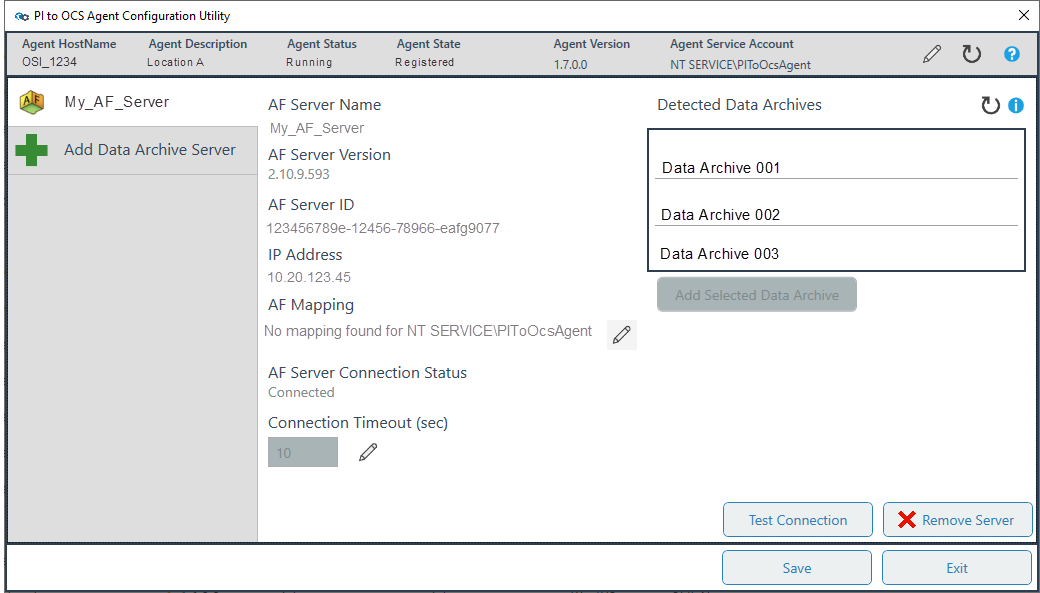
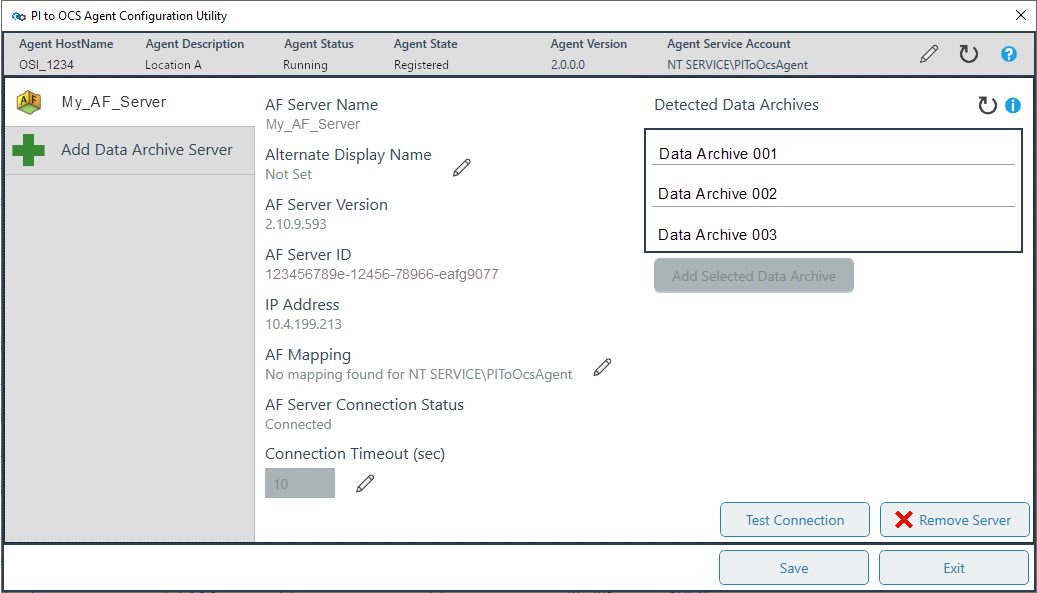
config-utility updates

diff --git a/content/add-organize-data/collect-data/connectors/pi-to-ocs/set-up-pi-to-ocs/config-utility.md b/content/add-organize-data/collect-data/connectors/pi-to-ocs/set-up-pi-to-ocs/config-utility.md
@@ -6,26 +6,24 @@ uid: pi-to-ocs-utility
 
 Use the PI to OCS Agent Configuration Utility to set up and configure AF server and Data Archive data sources before creating a data transfer. After installing or upgrading a PI to OCS Agent, use the utility to select a source AF server or Data Archive, view connection details, create AF and PI mappings, set data privacy settings, and register the agent. 
 
-The following image and table provides descriptions of the fields in the utility.<!--AF 11/12/21 why are there two comments on the image in addition to the numbered callouts? shouldn't they all be numbered callouts?-->  
+The following table provides descriptions of the fields shown in the configuration utility. The image shows the AF server selected, but the fields are similar when a Data Archive server is selected.
 
    ![AF server details](../../images/utility-callouts.png)
 
-| Number  | Description                                                  |
-| :-----: | ------------------------------------------------------------ |
-| 1  | Name of the host computer where the agent is installed.       |
-| 2  | An optional name for an agent.                                |
-| 3  | Displays the PI to OCS Agent's status.                        |
-| 4  | Displays the agent's registration state.        |
-| 5  | The installed PI to OCS Agent version.                    |
-| 6  | Type of agent service account.                               |
-| 7  | Set data privacy options and assign an agent description.    |
+| Number | Description                                                     |
+| :----: | --------------------------------------------------------------- |
+| 1  | Name of the host computer where the agent is installed.             |
+| 2  | An optional name for the agent.                                     |
+| 3  | Displays the agent's status.                                        |
+| 4  | Displays the agent's registration state.                            |
+| 5  | The installed PI to OCS Agent version.                              |
+| 6  | Type of agent service account.                                      |
+| 7  | Set data privacy options and assign an agent description.           |
 | 8  | View information about the server connection and its configuration. |
-| 9  | Source AF server name.                                        |
-| 10 | An optional, alternate name for an AF server. Select the pencil icon to assign a custom name that appears in the PI to OCS Agents window if you opted to display it. This name replaces the AF server name referenced in the path of the asset's metadata, which is visible in Asset Explorer ('__Path').</br>**Note:** Setting an alternate display name must be done *before* the initial start of a transfer. StreamIds are immutable. Once a stream is built, to change it you must delete all the original streams, configure the alternate display name, and restart the transfer.</br>**Note:** You can also assign an alternate Data Archive server name that appears in PI to OCS stream IDs. | 
-| 11 | The type of AF mapping configured on the service account. Select the pencil icon next to assign an AF mapping to an AF identity. |
-| 12 | The time before the agent connection times out. Select the pencil icon to enter a new time in seconds. |
-
-   **Note:** After a Data Archive server is added, similar information in the table above is displayed in the utility.
+| 9  | Source AF or Data Archive server name.                              |
+| 10 | An optional, alternate name for an AF or Data Archive server.       | 
+| 11 | The type of AF/PI mapping configured on the service account.        |
+| 12 | The time before the agent connection times out.                     |
 
 ## Open the PI to OCS Agent Configuration Utility
 
@@ -33,7 +31,7 @@ The PI to OCS Agent Configuration Utility opens after you install or upgrade a P
 
 **Note:** If you use a different user account than the one that was used originally to install the agent, authentication is required before you can access the utility. 
 
-To open the PI to OCS Agent Configuration Utility, follow these steps:
+To open the PI to OCS Agent Configuration Utility:
 
 1. Select **Start** > **OSIsoft** > **PI to OCS Agent Configuration Utility**, and then select **Yes** to confirm.
 
@@ -49,32 +47,33 @@ Add an AF server to the utility to be able to use it in data transfers. The util
 
 * The version of PI Asset Framework (AF) installed on the AF server supports the features required for transfers.
 
-To add an AF server, follow these steps:
+To add an AF server:
+
+1. Open the PI to OCS Agent Configuration Utility.
 
 1. In the `PI to OCS Agent Configuration Utility` window, select the **AF** button.<!--Angela Flores 11/12/21 - I normally would not use button, but I can't tell from the screenshots what you actual need to select.-->
 
-1. In the **AF Server Name** field, enter the name of the AF server, and then select **Add Server**.
- 
+   **Note**: If a Data Archive server was added first, select **Add Asset Framework Server** on the left side of the window instead.
+
+1. In the **AF Server Name** box, enter the name of the AF server, and then select **Add Server**.
+
    The utility displays the server details.
 
    ![Agent status and state after refresh](../../images/af-details-refreshed.png)
 
-   **Note:** Once an AF Server has been added, the utility scans the configured AF server for referenced Data Archives. As the utility finds Data Archives, they are shown in the **Detected Data Archives** list. You can select and add the desired Data Archive. You don't have to wait for the scan to complete. You can also manually type the name of the Data Archive if you don't want to wait for the scan to complete.
-
+   **Note:** Once an AF Server has been added, the utility scans the configured AF server for referenced Data Archives. As the utility finds Data Archives, they are shown in the **Detected Data Archives** list. You can select and add the desired Data Archive. You do not have to wait for the scan to complete. You can also manually type the name of the Data Archive if you do not want to wait for the scan.
 
 1. Select one of the Data Archives listed under `Detected Data Archives`, and then select **Add Selected Data Archive**.
 
 1. Review the AF source server details to ensure they are correct:
 
    * AF server name, version, and ID
-
    * IP address
-
    * Connection status and timeout
 
-1. (Optional) To add an alternate name that appears in in the path of the asset's metadata and in the portal if you opted to display it, select the pencil icon, type an alternate name, select **Set Display Name** and then select **Close**. 
+1. (Optional) To add an alternate name that appears in the path of the asset's metadata and in the portal if you opted to display it, select the pencil icon, type an alternate name, select **Set Display Name** and then select **Close**. See [Usage of server names and alternate display names within OCS](#usage-of-server-names-and-alternate-display-names-within-ocs).
 
-1. (Optional) To change the length of time the agent checks for a server connection before timing out, select the pencil icon next to the **Connection Timeout** field.
+1. (Optional) To change the length of time the agent checks for a server connection before timing out, select the pencil icon next to the **Connection Timeout** box.
 
 1. To keep the current AF server configuration settings and restart the agent, select **Save**.
 
@@ -84,17 +83,25 @@ To add an AF server, follow these steps:
 
    **Note:** After you save the AF server configuration settings and restart and register the agent, you need to select a default Data Archive in PI System Explorer to resolve substitution references for AF element attributes.
 
+## Usage of server names and alternate display names within OCS
+
+The AF server name, or its alternate display name, displays on the PI to OCS Agents page within OCS and is referenced in the path of an asset's metadata, which is visible in Asset Explorer (`__Path`).
+
+The Data Archive name, or its alternate display name, appears in the PI to OCS Agents window within OCS, and is used in the StreamIDs created by a transfer. StreamIds have the format `PI_[DataArchiveServerName]_[PIPointIDNumber]`.
+
+**Note:** Setting an alternate display name for a Data Archive must be done *before* the initial start of a transfer. StreamIds are immutable. Once a stream is built, to change it you must delete all the original streams, configure the alternate display name, and restart the transfer.
+
 ## Select the default Data Archive in PI System Explorer
 
 You need to specify the default Data Archive, also referred to as the default data server, for the PI system and PI AF database after setting an AF server. By default, PI AF databases inherit the PI AF Server's local default data server. See [Find the default Data Archive server](https://docs.osisoft.com/bundle/pi-server/page/find-the-default-pi-data-archive-server.html) for more information.
 
-To select the default Data Archive, follow these steps:
+To select the default Data Archive:
 
 1. Open PI System Explorer on the client machine.
 
 1. Select **File** > **Server Properties**.
 
-1. In the `PI AF Server Properties` window, select the **Default Data Server** down arrow, and then select the data server to be the default.<!--AF 11/12/21 what is Default Data Server down arrow???-->
+1. In the `PI AF Server Properties` window, select the data server to be the default from the **Default Data Server** dropdown list.
 
 1. Select **Apply**, then select **OK** to save the selection.
  
@@ -106,11 +113,11 @@ You can assign an AF mapping to an AF identity. AF mappings enable a specific se
 
 **Note:** The user account used to launch the utility must have permission to create mappings.
 
-To create an AF mapping, follow these steps:
+To create an AF mapping:
 
 1. Open the PI to OCS Agent Configuration Utility.
 
-1. Select the pencil icon next to the **AF Mapping** field.
+1. Select the pencil icon next to **AF Mapping**.
    
 1. In the `Configure AF Mapping` window, for each mapping you want to add, select an identity and select **Save**.
 
@@ -130,25 +137,27 @@ The list of available Data Archive servers is based on the servers referenced by
 
 **Note:** If you are not adding an AF server, select the Data Archive icon on the first screen of the PI to OCS Agent Configuration Utility.
 
-To add a Data Archive, follow these steps:
+To add a Data Archive:
 
 1. Open the PI to OCS Agent Configuration Utility.
+
+1. In the `PI to OCS Agent Configuration Utility` window, select the **Data Archive Server** button.
+
+   **Note**: If an AF server was added first, select **Add Data Archive Server** on the left side of the window instead.
    
-1. Select **Data Archive Server**, then enter the name of the Data Archive server, and then select **Add Server**.
+1. In the **Data Archive Server Name** box, enter the name of the Data Archive server, and then select **Add Server**.
    
    The Data Archive connection is added and details about the newly added Data Archive are displayed.
 
 1. Review the following details for the Data Archive:
  
    * Server name, version, and server ID
-
    * IP address
-
    * Connection status and timeout
    
-1. (Optional) To add an alternate name that appears in the stream ID and in the portal if you opted to display it, select the **Alternate Display Name** pencil icon, type an alternate name, select **Set Display Name** and then select **Close**. 
+1. (Optional) To add an alternate name, select the **Alternate Display Name** pencil icon, type an alternate name, select **Set Display Name** and then select **Close**. See [Usage of server names and alternate display names within OCS](#usage-of-server-names-and-alternate-display-names-within-ocs).
 
-1. (Optional) To change the length of time the agent checks for a server connection before timing out, select the pencil icon next to the **Connection Timeout (sec)** field.
+1. (Optional) To change the length of time the agent checks for a server connection before timing out, select the pencil icon next to the **Connection Timeout (sec)** box.
 
 1. (Optional) To confirm that the connection to the Data Archive is working, select **Test Connection**.
 
@@ -162,13 +171,13 @@ PI mappings enable access to data stored on a Data Archive by service accounts a
 
 **Note:** The user account used to launch the utility must have permissions to create mappings.
 
-To create a PI mapping, follow these steps:
+To create a PI mapping:
 
 1. Open the PI to OCS Agent Configuration Utility.
 
-1. Navigate to the `Data Archive details` page.
+1. Select the Data Archive server on the left side of the page.
 
-1. Select the pencil icon next to the **PI Mapping** field.
+1. Select the pencil icon next to **PI Mapping**.
  
    The `Configure Mapping` window opens.<!--AF 11/12/21 Why does PI Mapping have a screenshot, but AF mapping doesn't? Do we really need it?-->
 
@@ -180,35 +189,34 @@ To create a PI mapping, follow these steps:
 
    **Note:** If a PI mapping has already been created with another tool, a warning is displayed. 
 
-1. Select **Close** to return to the utility.
+1. Select **Close** to return to the utility, and then select **Save** in the utility.
 
 ## Set data privacy and add an agent description
 
-Use the PI to OCS Agent Settings to add a descriptive name for the agent and to configure data privacy. This description appears where the agent is referenced and allows you to search by agent description. Data privacy settings control whether a host name of a Data Archive is published and displayed in OCS. By default, host names are not published. If you opt to have a host name published, it appears in the portal on the `PI to OCS Agents` window as shown below: 
+Use the PI to OCS Agent Settings to add a descriptive name for the agent and to configure data privacy. This description appears where the agent is referenced and allows you to search by agent description. Data privacy settings control whether a host name of a Data Archive is published and displayed in OCS. By default, host names are not published. If you opt to have a host name published, it appears in the portal on the `PI to OCS Agents` page as shown below: 
 
-![Agent description and hostname displayed in PI to OCS Agents window](../../images/pi-to-ocs-agents-hostname.png)
-<!--AF 11/12/21 I would change the callouts in the image to be minimal, like "Agent description" and "host name". Then add any additional explanation here in text. It will be easier to read and easier to maintain. -->
+![Agent description and hostname displayed in PI to OCS Agents page](../../images/pi-to-ocs-agents-hostname.png)
 
-To configure data privacy and add an agent description, follow these steps:
+To configure data privacy and add an agent description:
 
 1. Open the PI to OCS Agent Configuration Utility.
 
-1. To open the `PI to OCS Agent Settings` window, select the pencil icon to the right of **Agent Service Account**.
+1. Select the pencil icon to the right of **Agent Service Account** to open the `PI to OCS Agent Settings` window.
 
 1. To publish the hostname, select the **Opt-in to publishing PI to OCS Agent Hostname in OCS?** option under `Data Privacy`.
 
-1. (Optional) In the **PI to OCS Agent Description** field, enter a descriptive name for the agent.
+1. (Optional) In the **PI to OCS Agent Description** box, enter a descriptive name for the agent.
 
-1. To save your selections, select **Ok** , and then select **Save** in the utility.
+1. To save your selections, select **Ok**, and then select **Save** in the utility.
 
 ## List of agent status states
 
-It may take a few minutes for a PI System to register with OCS. The table below lists the various states that may appear under the **Agent Status** field in the PI to OCS Configuration Utility.
+It may take a few minutes for a PI System to register with OCS. The table below lists the various states that may appear under **Agent Status** in the PI to OCS Configuration Utility.
 
 | **State**                     | **Description**                                              |
 | ----------------------------- | ------------------------------------------------------------ |
-| Data Source Connection Issue | Indicates the PI To OCS Agent cannot connect to the Data Archive. Some reasons for this status include the Data Archive is turned off, a firewall issue is preventing connections, or an incorrect name is configured for the Data Archive. For example, the agent is trying to connect to a machine that does not exist or was renamed. There may be additional reasons for this status. |
-| Data Source Security Issue   | Indicates the Data Archive connection is unsecured and security settings need to be addressed. |
+| Data Source Connection Issue  | Indicates the PI To OCS Agent cannot connect to the Data Archive. Some reasons for this status include the Data Archive is turned off, a firewall issue is preventing connections, or an incorrect name is configured for the Data Archive. For example, the agent is trying to connect to a machine that does not exist or was renamed. There may be additional reasons for this status. |
+| Data Source Security Issue    | Indicates the Data Archive connection is unsecured and security settings need to be addressed. |
 | Missing Configuration         | The Data Archive server has not been configured in the PI to OCS Agent. |
 | Registration Failed           | Contact OSIsoft Customer support for assistance.             |
 | Registering                   | The PI to OCS Cloud portion is creating the necessary resources for the PI to OCS Agent. |

diff --git a/content/add-organize-data/collect-data/connectors/pi-to-ocs/pi-to-ocs-data-transfers/af-data-transferred.md b/content/add-organize-data/collect-data/connectors/pi-to-ocs/pi-to-ocs-data-transfers/af-data-transferred.md
@@ -18,7 +18,7 @@ This table lists what AF objects can and cannot be included in a PI to OCS data 
 | Elements                                                     | Yes                                    |
 | Attributes                                                   | Yes                                    |
 | PI point references                                          | Yes                                    |
-| Constant values/string*                                      | Yes                                    |
+| Constant values/string                                       | Yes*                                   |
 | Excluded attributes                                          | Yes                                    |
 | Hidden attributes                                            | No                                     |
 | Custom unit of measurements (UOMs)                           | No                                     |
@@ -29,7 +29,7 @@ This table lists what AF objects can and cannot be included in a PI to OCS data 
 | Implicit PI points with attributes that reference other attributes | No                               |
 | Attributes that reference a non-registered data source/PI Data Archive | No                 |
 
-\***Note**: AF Attributes that are of type Boolean will be ignored.
+\***Note**: Static AF Attributes configured as type 'Boolean' are not supported and will not be transferred.
 
 ## Performance metrics: AF data transfer
 
